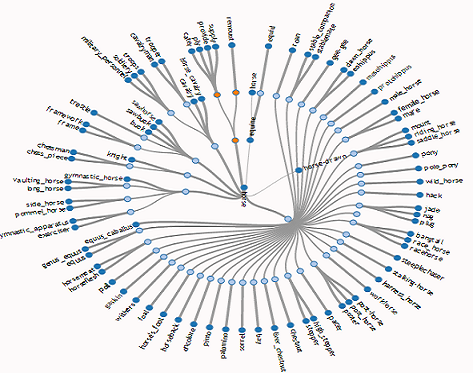
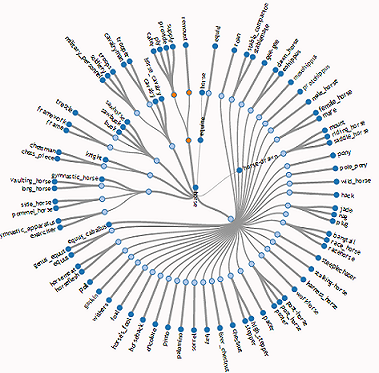
recherche avec filtre

diff --git a/web/bundles/CartoRepresentationsBundle/action/main_action.php b/web/bundles/CartoRepresentationsBundle/action/main_action.php
@@ -1,7 +1,8 @@
 <?php
 	if (isset($_POST['search'])){
 		$cmd = $_POST['search'];
-		//$options = //liste des relations à prendre en compte
+		$options = $_POST['options'];//liste des relations à prendre en compte
+		$relations = implode(",", $options);
 	}
 	else { $cmd = 'entity'; }
 
@@ -9,7 +10,7 @@
 
 	//Pour tester la possibilité de rechercher une ou des relations données, remplacez /all par /rel1,rel2,... (au moins une relation)
 	//curl_setopt($curlSession, CURLOPT_URL, 'http://carto.localhost/fr/donnees/json/'.$cmd.'/all'); //Céline  // .'/'.$options = rel1,rel2,rel3
-	curl_setopt($curlSession, CURLOPT_URL, 'http://localhost/CartoSavoie/carto/web/fr/donnees/json/'.$cmd.'/all'); //Juliana
+	curl_setopt($curlSession, CURLOPT_URL, 'http://localhost/CartoSavoie/carto/web/fr/donnees/json/'.$cmd.'/'.$relations); //Juliana
 	//curl_setopt($curlSession, CURLOPT_URL, 'http://localhost/Projet%20-%20Visualisation%20de%20donnees/carto/web/fr/donnees/json/'.$cmd.'/all'); // Anthony
 	//curl_setopt($curlSession, CURLOPT_URL, 'http://carto.dev/fr/donnees/json/'.$cmd.'/all'); // Anthony2
 	//curl_setopt($curlSession, CURLOPT_URL, 'http://carto.dev/fr/donnees/json/'.$cmd.'/all');
